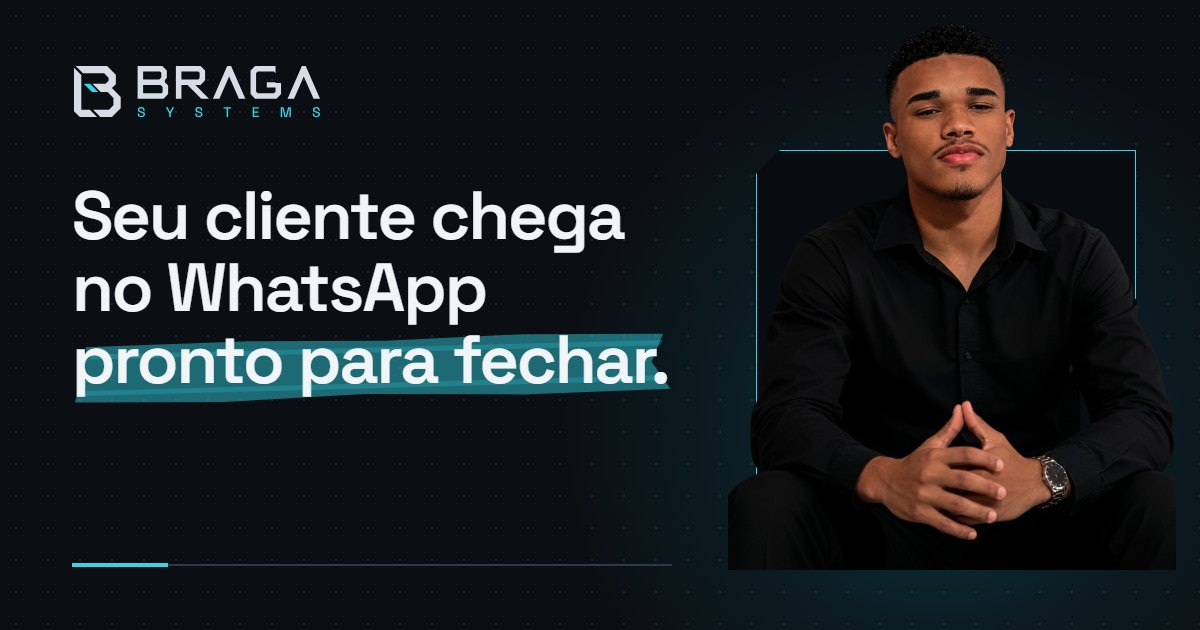
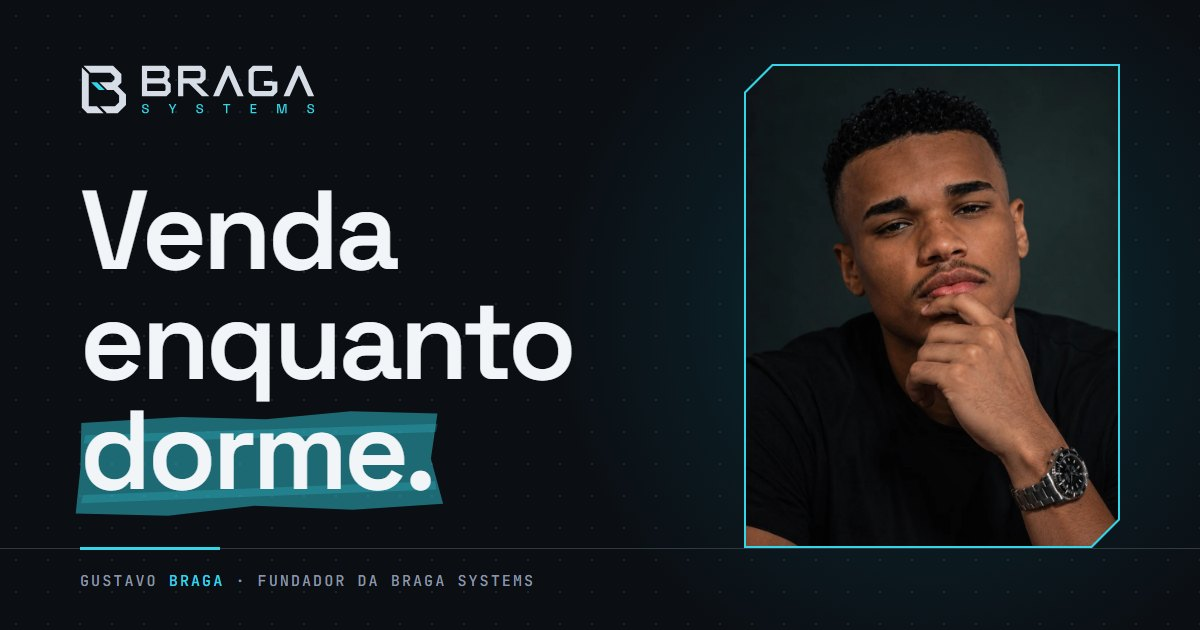
Imagem de compartilhamento nova: "Venda enquanto dorme." com a foto do Sobre
A frase do hero na imagem e o título "Seu cliente chega no WhatsApp pronto para fechar." embaixo, no WhatsApp, se completam em vez de se repetir. Foto do Sobre inteira num quadro chanfrado com borda ciano, legenda "Gustavo Braga · fundador da BRAGA SYSTEMS" e o trilho do site. Texto alternativo atualizado.

diff --git a/src/content/home.ts b/src/content/home.ts
@@ -6,7 +6,7 @@ export const compartilhar = {
   titulo: "Seu cliente chega no WhatsApp pronto para fechar.",
   descricao: "Landing pages e sites com copy inclusa, design personalizado e garantia no layout. BRAGA SYSTEMS.",
   imagem: "/og/home.jpg",
-  imagemAlt: "Gustavo Braga ao lado da frase “Seu cliente chega no WhatsApp pronto para fechar.” e do logo da BRAGA SYSTEMS",
+  imagemAlt: "Gustavo Braga, com a mão no queixo, ao lado da frase “Venda enquanto dorme.” e do logo da BRAGA SYSTEMS",
 } as const;
 
 export const topo = {
